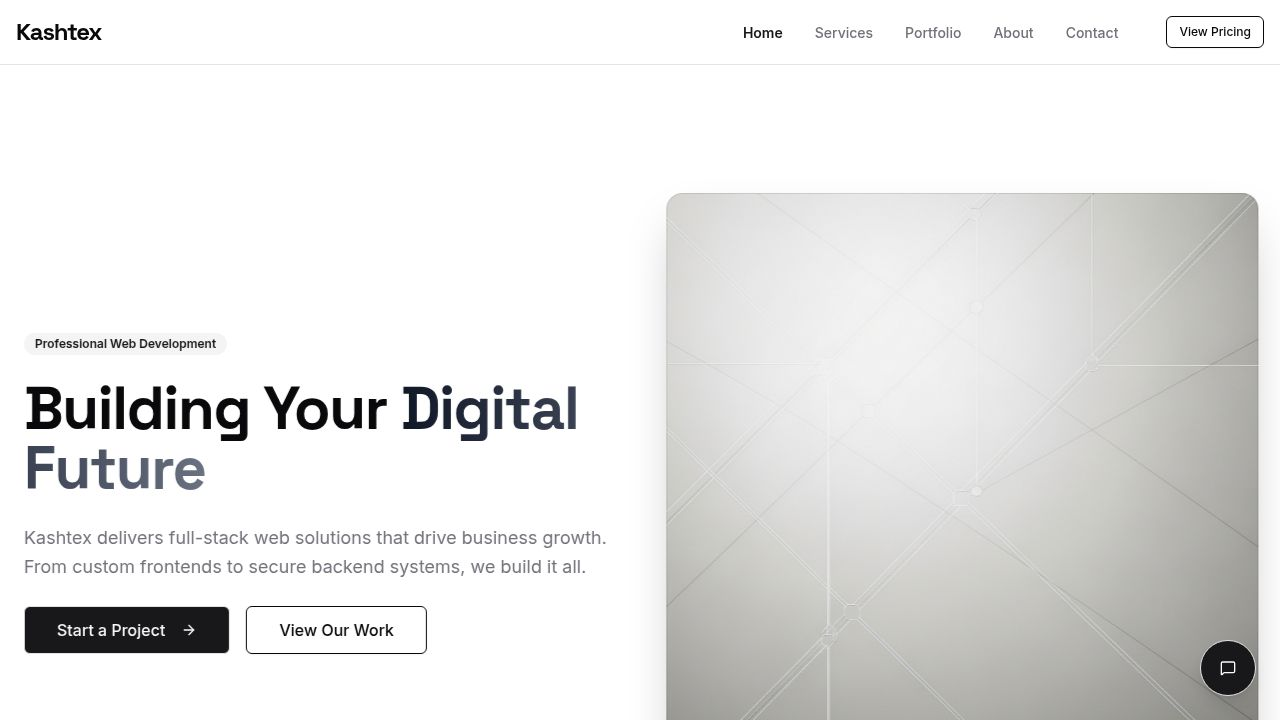
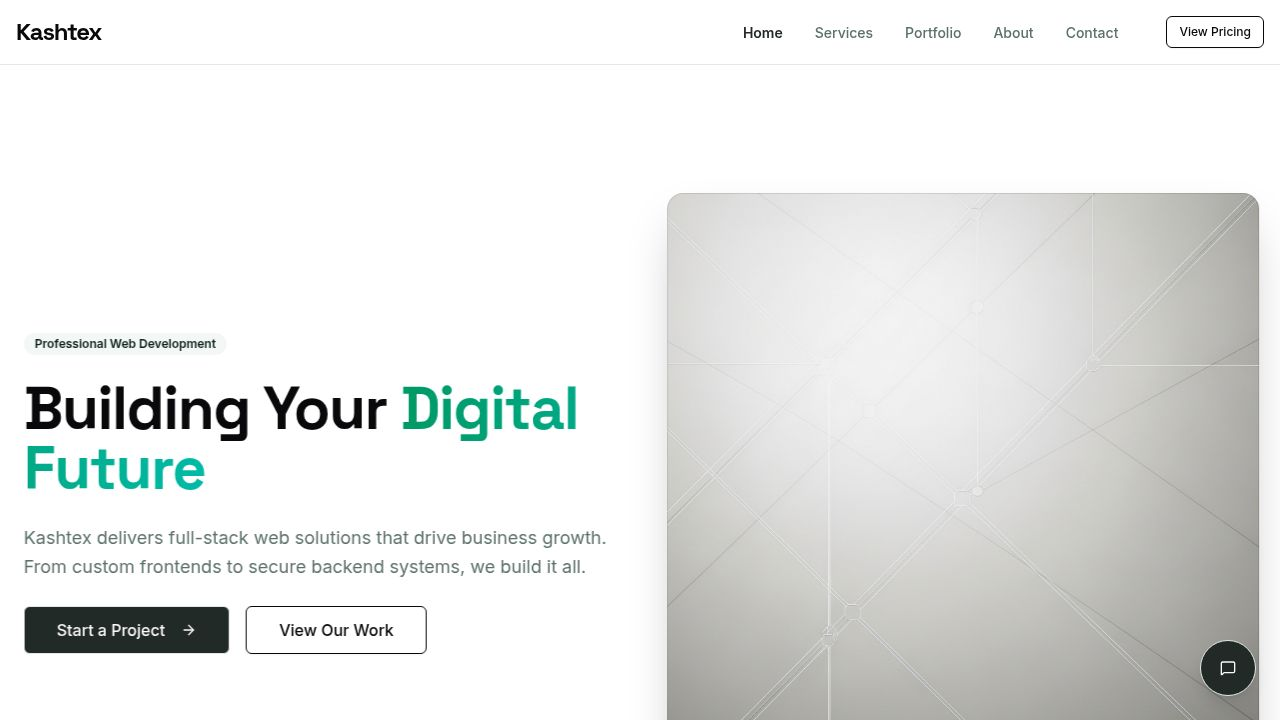
Update website visuals with a light green and sage color palette
Adjusted CSS variables in `index.css` to implement a new color scheme featuring greens and sages. Modified the hero text gradient in `home.tsx` from gray to an emerald-teal gradient.

Replit-Commit-Author: Agent
Replit-Commit-Session-Id: a33077f9-3efe-4977-9835-4d7edf7bdf5b
Replit-Commit-Checkpoint-Type: full_checkpoint
Replit-Commit-Event-Id: 8f2e75ff-ba69-4799-b46b-595127a15fbe
Replit-Commit-Screenshot-Url: https://storage.googleapis.com/screenshot-production-us-central1/f03580df-7e47-4ade-9cac-7c64401251f2/a33077f9-3efe-4977-9835-4d7edf7bdf5b/l8RdghH
Replit-Helium-Checkpoint-Created: true

diff --git a/client/src/index.css b/client/src/index.css
@@ -45,28 +45,28 @@
   --popover: 0 0% 100%;
   --popover-foreground: 240 10% 3.9%;
   
-  /* Primary: Deep Slate/Charcoal */
-  --primary: 240 5.9% 10%;
+  /* Primary: Deep Slate/Charcoal with a hint of Green */
+  --primary: 160 10% 15%;
   --primary-foreground: 0 0% 98%;
   
-  /* Secondary: Light Grey */
-  --secondary: 240 4.8% 95.9%;
-  --secondary-foreground: 240 5.9% 10%;
+  /* Secondary: Very Light Sage */
+  --secondary: 150 20% 96%;
+  --secondary-foreground: 160 40% 10%;
   
   /* Muted */
-  --muted: 240 4.8% 95.9%;
-  --muted-foreground: 240 3.8% 46.1%;
+  --muted: 150 15% 95%;
+  --muted-foreground: 160 10% 40%;
   
-  /* Accent: Subtle Indigo/Blue for highlights */
-  --accent: 220 14% 96%;
-  --accent-foreground: 220 50% 20%;
+  /* Accent: Modern Light Green (Mint/Sage) */
+  --accent: 142 45% 92%;
+  --accent-foreground: 142 60% 15%;
   
   --destructive: 0 84.2% 60.2%;
   --destructive-foreground: 0 0% 98%;
   
-  --border: 240 5.9% 90%;
-  --input: 240 5.9% 90%;
-  --ring: 240 5.9% 10%;
+  --border: 150 15% 90%;
+  --input: 150 15% 90%;
+  --ring: 142 60% 45%;
   
   --radius: 0.5rem;
 }

diff --git a/client/src/pages/home.tsx b/client/src/pages/home.tsx
@@ -22,7 +22,7 @@ export default function Home() {
                 Professional Web Development
               </div>
               <h1 className="text-4xl sm:text-5xl lg:text-6xl font-heading font-bold tracking-tight text-foreground">
-                Building Your <span className="text-transparent bg-clip-text bg-gradient-to-r from-gray-900 to-gray-500 dark:from-white dark:to-gray-400">Digital Future</span>
+                Building Your <span className="text-transparent bg-clip-text bg-gradient-to-r from-emerald-600 to-teal-500 dark:from-emerald-400 dark:to-teal-300">Digital Future</span>
               </h1>
               <p className="text-lg text-muted-foreground max-w-[600px] leading-relaxed">
                 Kashtex delivers full-stack web solutions that drive business growth. 
